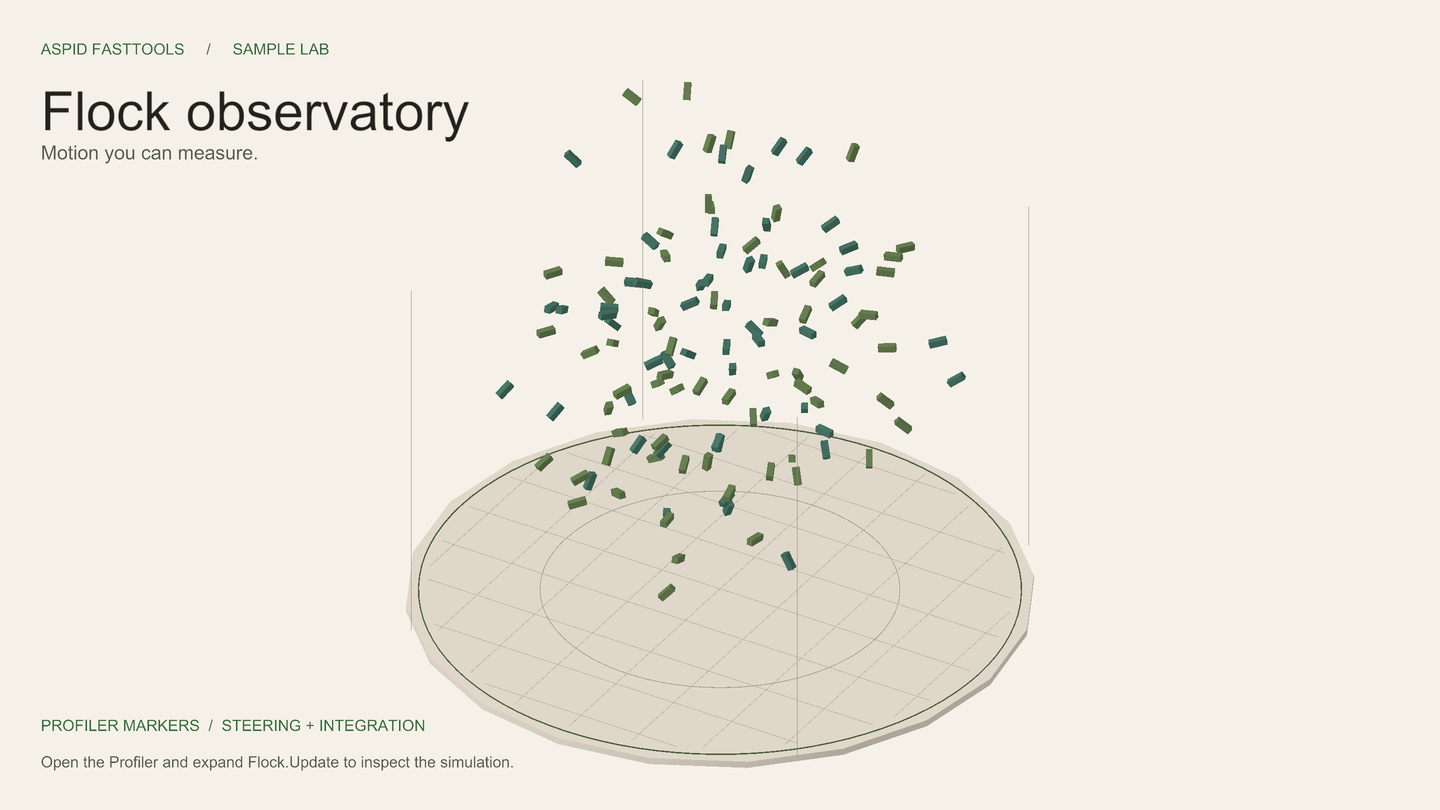
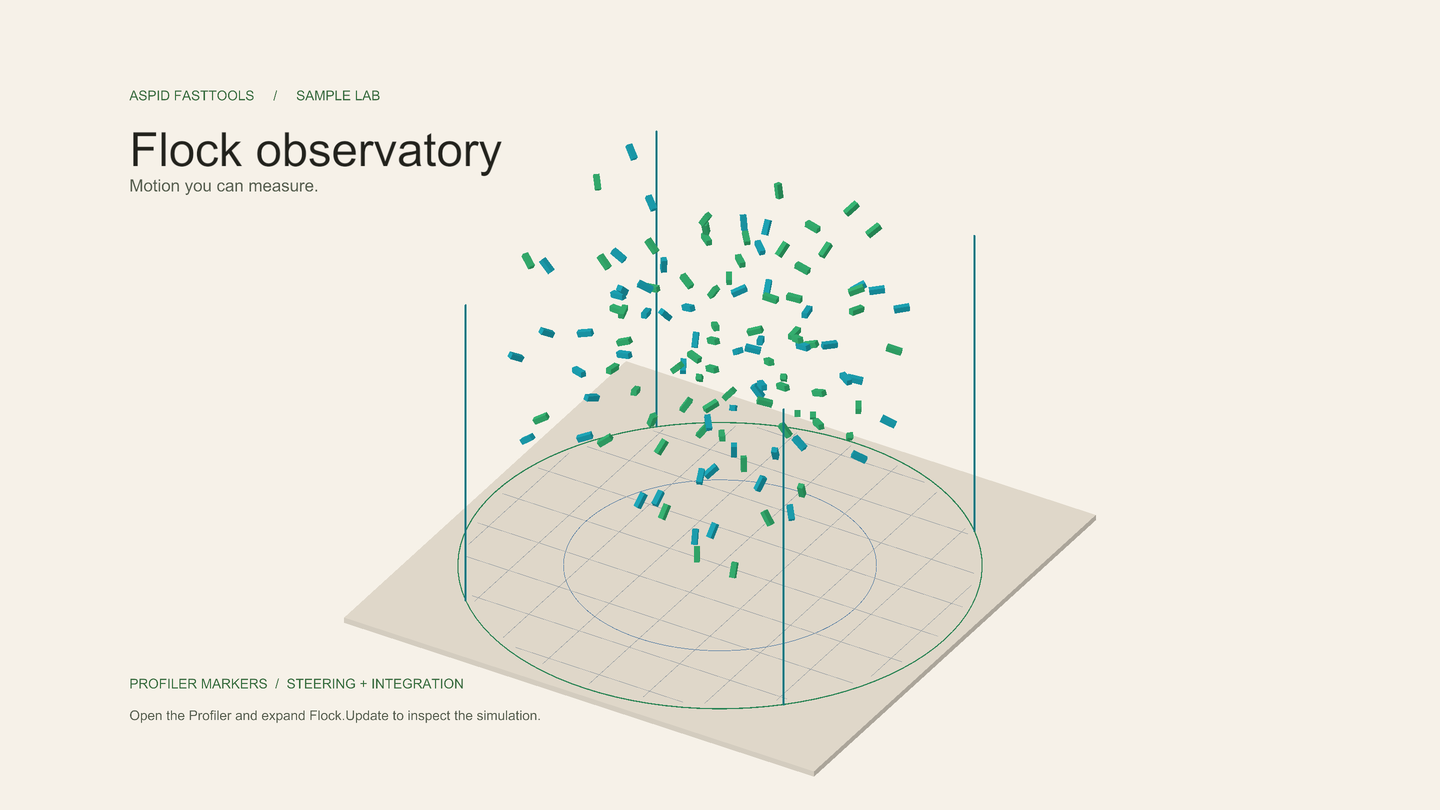
fix(samples): refine demo layouts, geometry and theme palettes
Keep enemies above the arena, align surface trails, and slow soft sand.
Use rectangular platforms and anchor volume guides to the orbit boundary.
Align catalog fields and buttons, refresh both media themes, and shorten pauses.

diff --git a/Aspid.FastTools/Packages/tech.aspid.fasttools/Samples~/EditorTools/Scripts/Editor/AbilityCatalogWindow.cs b/Aspid.FastTools/Packages/tech.aspid.fasttools/Samples~/EditorTools/Scripts/Editor/AbilityCatalogWindow.cs
@@ -85,7 +85,7 @@ namespace Aspid.FastTools.Samples.EditorTools.Editors
                 .AddChild(toolbar)
                 .AddChild(_list);
 
-            _details = new ScrollView().SetFlexGrow(1).SetPaddingX(20).SetPaddingY(20);
+            _details = new ScrollView().SetFlexGrow(1);
             _details.AddToClassList("ability-details");
             left.AddToClassList("ability-sidebar");
             create.AddToClassList("ability-primary");
@@ -159,6 +159,8 @@ namespace Aspid.FastTools.Samples.EditorTools.Editors
                 .AddChild(effectLabel)
                 .AddChild(effectButton);
 
+            effectRow.AddToClassList("ability-effect-row");
+
             // A one-click balance pass: chainable typed setters, Undo included, applied once at the end.
             var halveCooldown = new Button()
                 .SetText("Halve cooldown, +5 MP")
@@ -171,10 +173,27 @@ namespace Aspid.FastTools.Samples.EditorTools.Editors
                     manaCost.SetIntAndApply(manaCost.intValue + 5);
                 });
 
+            halveCooldown.AddToClassList("ability-action");
+            var selectAsset = new Button().SetText("Select asset")
+                .AddClicked(() => Selection.activeObject = config);
+            selectAsset.AddToClassList("ability-action");
+            var actions = new VisualElement();
+            actions.AddToClassList("ability-actions");
+            actions.Add(halveCooldown);
+            actions.Add(selectAsset);
+
+            var description = new TextField("Description")
+            {
+                multiline = true,
+                bindingPath = "_description"
+            };
+            description.AddToClassList("ability-description");
+
             var title = new Label(config.AbilityName)
                 .SetFontSize(24).AddBoldUnityFontStyleAndWeight().SetMarginBottom(18)
                 .SetTooltip("Double-click to open the script")
                 .AddOpenScriptCommand(config);
+            title.AddToClassList("ability-detail-title");
             title.TrackSerializedObjectValue(serializedObject, _ =>
             {
                 title.SetText(config.AbilityName);
@@ -186,14 +205,12 @@ namespace Aspid.FastTools.Samples.EditorTools.Editors
                 // BindTo(SerializedObject) binds every PropertyField below in one call.
                 .AddChild(new VisualElement()
                     .AddChild(new PropertyField(serializedObject.FindProperty("_abilityName")).AddValueChanged(_ => _list.RefreshItems()))
-                    .AddChild(new PropertyField(serializedObject.FindProperty("_description")))
+                    .AddChild(description)
                     .AddChild(new PropertyField(serializedObject.FindProperty("_manaCost")))
                     .AddChild(new PropertyField(serializedObject.FindProperty("_cooldown")))
                     .BindTo(serializedObject))
                 .AddChild(effectRow)
-                .AddChild(halveCooldown.SetMarginTop(12).SetAlignSelf(Align.FlexStart))
-                .AddChild(new Button().SetText("Select asset").SetAlignSelf(Align.FlexStart)
-                    .AddClicked(() => Selection.activeObject = config));
+                .AddChild(actions);
 
             var hint = new Label("Changes are saved to the asset. Use Undo to restore previous values.");
             hint.AddToClassList("ability-hint");

diff --git a/Aspid.FastTools/Packages/tech.aspid.fasttools/Samples~/EnumValues/Scripts/Walker.cs b/Aspid.FastTools/Packages/tech.aspid.fasttools/Samples~/EnumValues/Scripts/Walker.cs
@@ -48,7 +48,8 @@ namespace Aspid.FastTools.Samples.EnumValues
                 return;
             }
 
-            var trailPosition = transform.position + Vector3.down * 0.49f;
+            var trailPosition = transform.position;
+            trailPosition.y = _tile.GetComponent<Collider>().bounds.max.y + 0.01f;
             if (_trail == null || previousTile != _tile || Time.time >= _nextStep)
             {
                 _nextStep = Time.time + Mathf.Max(0.02f, _stepInterval.GetValue(_tile.Surface));

diff --git a/Aspid.FastTools/Packages/tech.aspid.fasttools/Samples~/Types/Scripts/Enemies/Grunt.cs b/Aspid.FastTools/Packages/tech.aspid.fasttools/Samples~/Types/Scripts/Enemies/Grunt.cs
@@ -10,6 +10,6 @@ namespace Aspid.FastTools.Samples.Types
         protected override Color Tint => new(0.85f, 0.35f, 0.25f);
 
         protected override void Move(float deltaTime) =>
-            transform.position = Vector3.MoveTowards(transform.position, Vector3.zero, Speed * deltaTime);
+            transform.position = Vector3.MoveTowards(transform.position, new Vector3(0f, transform.position.y, 0f), Speed * deltaTime);
     }
 }

diff --git a/Aspid.FastTools/Packages/tech.aspid.fasttools/Samples~/Types/Scripts/Enemies/Enemy.cs b/Aspid.FastTools/Packages/tech.aspid.fasttools/Samples~/Types/Scripts/Enemies/Enemy.cs
@@ -25,6 +25,8 @@ namespace Aspid.FastTools.Samples.Types
 
         protected virtual void Start()
         {
+            // Capsule pivots are centered; keep the feet on the arena after subtype scaling.
+            transform.position -= Vector3.up * GetComponent<Renderer>().bounds.min.y;
             _block = new MaterialPropertyBlock();
             _block.SetColor(_baseColorId, Tint);
             _block.SetColor(_colorId, Tint);

diff --git a/Aspid.FastTools/Packages/tech.aspid.fasttools/Samples~/Types/Scripts/Enemies/Archer.cs b/Aspid.FastTools/Packages/tech.aspid.fasttools/Samples~/Types/Scripts/Enemies/Archer.cs
@@ -13,7 +13,7 @@ namespace Aspid.FastTools.Samples.Types
         protected override void Move(float deltaTime)
         {
             var position = transform.position;
-            var toCenter = -position;
+            var toCenter = new Vector3(-position.x, 0f, -position.z);
             var distance = toCenter.magnitude;
             if (distance < 0.01f) return;
 

diff --git a/Aspid.FastTools/Packages/tech.aspid.fasttools/Samples~/Types/Scripts/Enemies/ArmoredGrunt.cs b/Aspid.FastTools/Packages/tech.aspid.fasttools/Samples~/Types/Scripts/Enemies/ArmoredGrunt.cs
@@ -11,8 +11,8 @@ namespace Aspid.FastTools.Samples.Types
 
         protected override void Start()
         {
-            base.Start();
             transform.localScale = Vector3.one * 1.4f;
+            base.Start();
         }
 
         public override string ToString() =>

diff --git a/Aspid.FastTools/Packages/tech.aspid.fasttools/Samples~/Types/Scripts/Enemies/Sniper.cs b/Aspid.FastTools/Packages/tech.aspid.fasttools/Samples~/Types/Scripts/Enemies/Sniper.cs
@@ -9,8 +9,8 @@ namespace Aspid.FastTools.Samples.Types
 
         protected override void Start()
         {
-            base.Start();
             transform.localScale = new Vector3(0.6f, 1.6f, 0.6f);
+            base.Start();
         }
     }
 }

diff --git a/Aspid.FastTools/Packages/tech.aspid.fasttools/Samples~/EnumValues/Scripts/TerrainFlags.cs b/Aspid.FastTools/Packages/tech.aspid.fasttools/Samples~/EnumValues/Scripts/TerrainFlags.cs
@@ -11,5 +11,6 @@ namespace Aspid.FastTools.Samples.EnumValues
         Wet = 1,
         Slippery = 2,
         Hot = 4,
+        Soft = 8,
     }
 }

diff --git a/Aspid.FastTools/Packages/tech.aspid.fasttools/Samples~/EnumValues/Documentation/README.ru.md b/Aspid.FastTools/Packages/tech.aspid.fasttools/Samples~/EnumValues/Documentation/README.ru.md
@@ -14,7 +14,7 @@
 ## Как открыть
 
 1. Импортируйте пример и откройте `Scenes/EnumValues.unity`.
-2. Войдите в Play Mode: **Walker** проходит семь плиток, оставляя непрерывную цветную линию. Её старый конец сокращается через две секунды. На горячем металле персонаж движется быстрее, на мокрой траве — медленнее.
+2. Войдите в Play Mode: **Walker** проходит семь плиток, оставляя непрерывную цветную линию. Её старый конец сокращается через две секунды. На горячем металле персонаж движется быстрее, на мокрой траве — медленнее. Мягкий песок даёт множитель скорости `0.4`: ниже, чем у сухого камня (`1`) и мокрого скользкого камня (`0.5`).
 
 ![Персонаж проходит по разным поверхностям и оставляет непрерывную цветную линию.](Images/demo.gif)
 

diff --git a/Aspid.FastTools/Packages/tech.aspid.fasttools/Samples~/EnumValues/Documentation/README.md b/Aspid.FastTools/Packages/tech.aspid.fasttools/Samples~/EnumValues/Documentation/README.md
@@ -14,7 +14,7 @@ Surface colors and footprint colors, each with a Default Value.
 ## Open it
 
 1. Import the sample and open `Scenes/EnumValues.unity`.
-2. Enter Play Mode: the **Walker** crosses seven tiles, leaving a continuous colored trail whose older end recedes after two seconds. Movement is faster on hot metal and slower on wet grass.
+2. Enter Play Mode: the **Walker** crosses seven tiles, leaving a continuous colored trail whose older end recedes after two seconds. Movement is faster on hot metal and slower on wet grass. Soft sand uses a `0.4` speed multiplier, below both dry stone (`1`) and wet, slippery stone (`0.5`).
 
 ![The walker crosses different surfaces and leaves a continuous colored trail.](Images/demo.gif)
 
